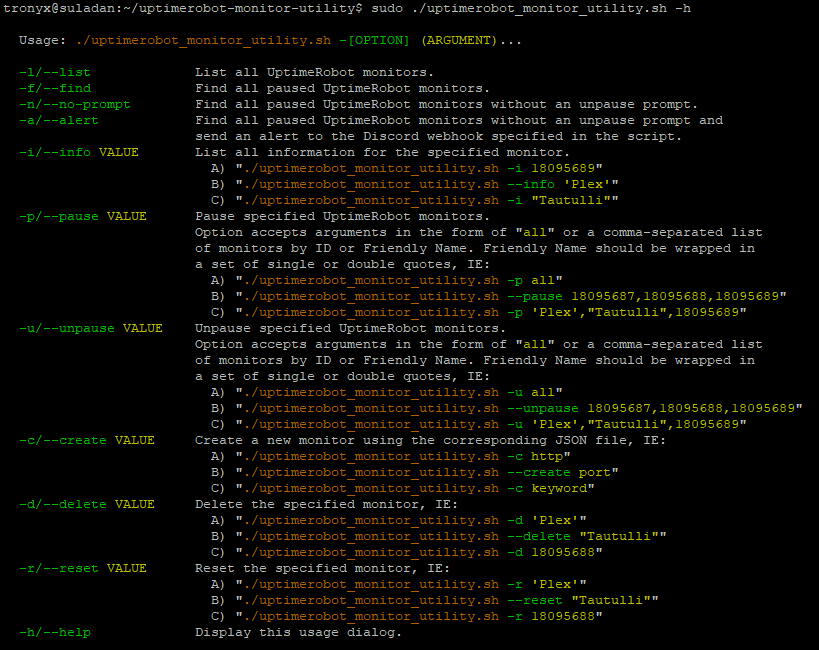
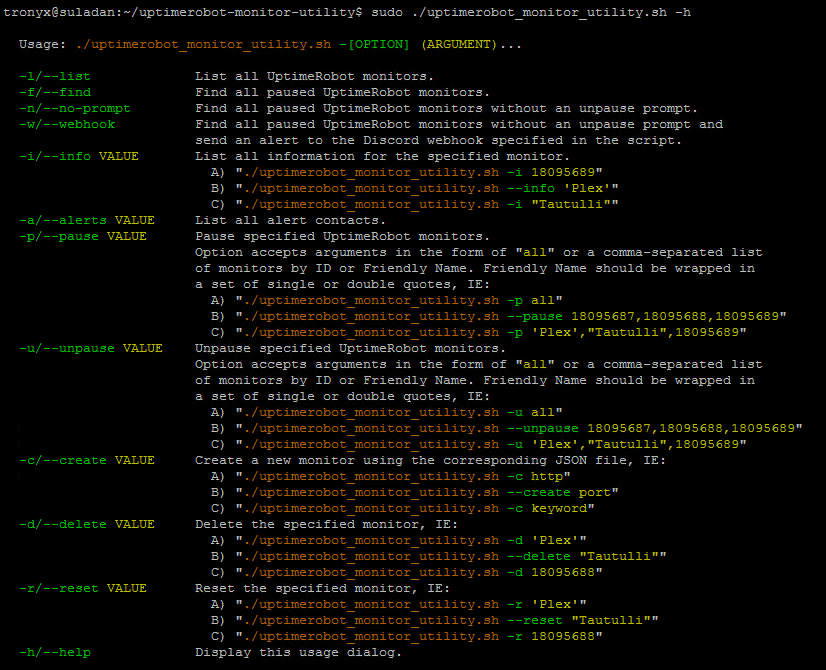
Updates

diff --git a/README.md b/README.md
@@ -125,7 +125,35 @@ tronyx@suladan:~/uptimerobot-monitor-utility$ sudo ./uptimerobot_monitor_utility
 Displays a list of all of the alert contacts configured for the account:
 
 ```json
+tronyx@suladan:~/uptimerobot-monitor-utility$ sudo ./uptimerobot_monitor_utility.sh -a
+You didn't define your API key in the script!
 
+Enter your API key: u526944-e14f448afd3ce288452edd48
+
+The following alert contacts have been found for your UptimeRobot account:
+
+{
+  "stat": "ok",
+  "offset": 0,
+  "limit": 50,
+  "total": 2,
+  "alert_contacts": [
+    {
+      "id": "0526944",
+      "friendly_name": "E-Mail",
+      "type": 2,
+      "status": 2,
+      "value": "me@domain.com"
+    },
+    {
+      "id": "2611518",
+      "friendly_name": "Discord",
+      "type": 11,
+      "status": 2,
+      "value": "https://discordapp.com/api/webhooks/1234567890987654321/ewrtgeqfge-qegqthqwrth-qehqerthdfbtrh-qthqrthqhbgtqrh/slack"
+    }
+  ]
+}
 ```
 
 This can be helpful when creating a new monitor as you can use the `id` field of the alert contact to specify the alert contact that you want to be notified when an event occurs with the new monitor that you're creating.
@@ -270,7 +298,7 @@ tronyx@suladan:~/uptimerobot-monitor-utility$ cat Templates/new-http-monitor.jso
 }
 ```
 
-The `api_key` field is filled in automatically by the script, but you can still add it yourself if you'd like to.
+The `api_key` field is filled in automatically by the script, but you can still add it yourself if you'd like to. The `alert_contacts` field can be filled in with the `id` field from your preferred alert contact which you can retrieve using the `-a/--alerts` option with the script.
 
 Then just execute the script to create the monitor:
 
